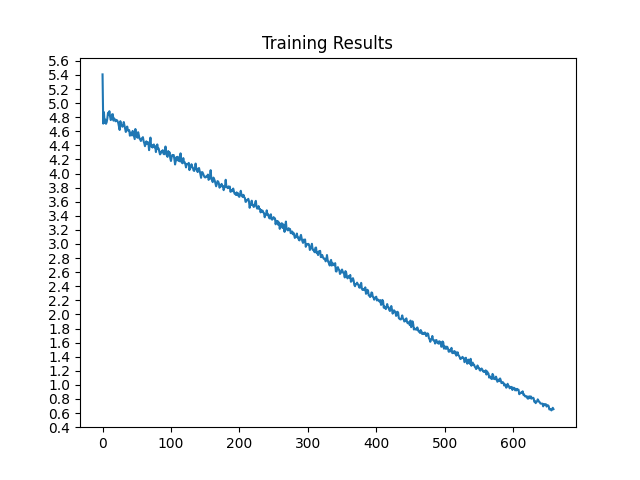
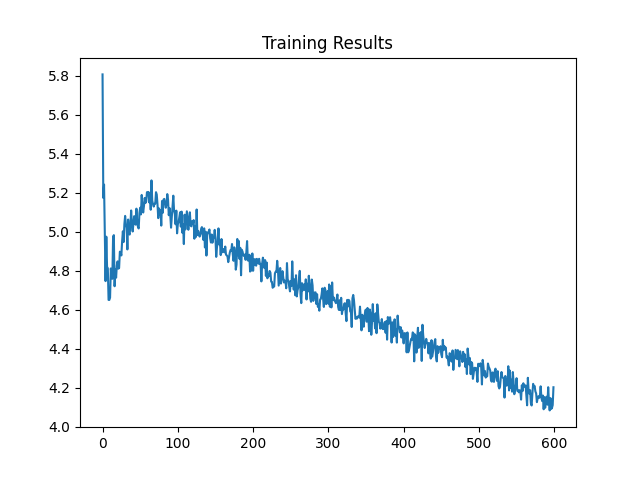
lstm 30 words

diff --git a/main.py b/main.py
@@ -24,7 +24,7 @@ EOS_token = 1
 teacher_forcing_ratio = 0.5
 
 def filterPair(p):
-    return len(p[0].split(' ')) < 12 and len(p[1].split(' ')) < 12
+    return len(p[0].split(' ')) < 30 and len(p[1].split(' ')) < 30
 
 def filterPairs(pairs):
     return [pair for pair in pairs if filterPair(pair)]
@@ -71,7 +71,7 @@ def train(input_tensor, target_tensor, encoder, decoder, encoder_optimizer, deco
     input_length = input_tensor.size(0)
     target_length = target_tensor.size(0)
 
-    encoder_outputs = torch.zeros(12, encoder.hidden_size, device="cuda")
+    encoder_outputs = torch.zeros(30, encoder.hidden_size, device="cuda")
     loss = 0
 
     for ei in range(input_length):
@@ -181,7 +181,7 @@ def evaluate(encoder, decoder, sentence):
         encoder_h_hidden = encoder.initHidden()
         encoder_c_hidden = encoder.initHidden()
 
-        encoder_outputs = torch.zeros(12, encoder.hidden_size, device="cuda")
+        encoder_outputs = torch.zeros(30, encoder.hidden_size, device="cuda")
 
         for ei in range(input_length):
             encoder_output, encoder_hiddens = encoder(input_tensor[ei], encoder_h_hidden, encoder_c_hidden)
@@ -195,9 +195,9 @@ def evaluate(encoder, decoder, sentence):
         decoder_c_hidden = encoder_c_hidden
 
         decoded_words = []
-        decoder_attentions = torch.zeros(12, 12)
+        decoder_attentions = torch.zeros(30, 30)
 
-        for di in range(12):
+        for di in range(30):
             decoder_output, decoder_hiddens, decoder_attention = decoder(decoder_input, decoder_h_hidden, decoder_c_hidden, encoder_outputs)
             decoder_attentions[di] = decoder_attention.data
             topv, topi = decoder_output.data.topk(1)
@@ -298,7 +298,7 @@ if __name__ == '__main__':
         encoder1 = EncoderRNN.EncoderRNN(input_lang.n_words, hidden_size).to("cuda")
         attn_decoder1 = DecoderRNN.AttnDecoderRNN(hidden_size, output_lang.n_words, dropout_p=0.1).to("cuda")
 
-        epochs = 30
+        epochs = 10
 
         trainIters(encoder1, attn_decoder1, epochs, print_every=10000)
         evaluateRandomly(encoder1, attn_decoder1)

diff --git a/DecoderRNN.py b/DecoderRNN.py
@@ -11,7 +11,7 @@ class AttnDecoderRNN(nn.Module):
         self.dropout_p = dropout_p
 
         self.embedding = nn.Embedding(self.output_size, self.hidden_size)
-        self.attn = nn.Linear(self.hidden_size * 2, 12)
+        self.attn = nn.Linear(self.hidden_size * 2, 30)
         self.attn_combine = nn.Linear(self.hidden_size * 2, self.hidden_size)
         self.dropout = nn.Dropout(self.dropout_p)
         self.lstm = nn.LSTM(self.hidden_size, self.hidden_size)

diff --git a/FileReading.py b/FileReading.py
@@ -68,10 +68,10 @@ def readLangs(lang1, lang2, reverse=False):
     print("English length frequencies:", frequency)
 
     freq = []
-    for x in list(frequency)[12:]:
+    for x in list(frequency)[30:]:
         freq.append(frequency[x])
 
-    print("Sentences with more than 12 words:", sum(freq))
+    print("Sentences with more than 30 words:", sum(freq))
 
     if reverse:
         pairs = [list(reversed(p)) for p in pairs]
